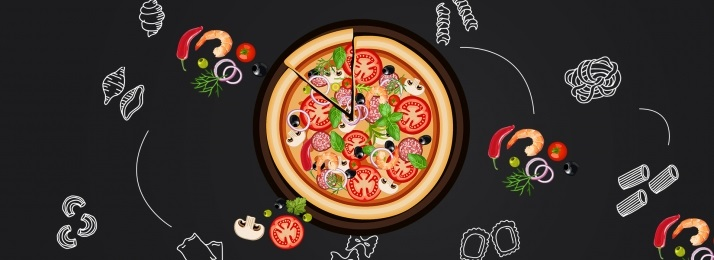
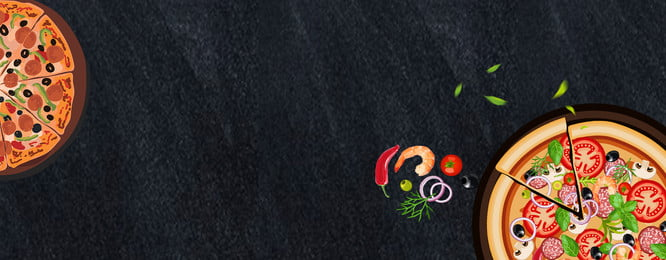
promena

diff --git a/hw-2/domaci2.html b/hw-2/domaci2.html
@@ -22,9 +22,9 @@
 		</div>
 	</nav>
 
-	<div class="container-fluid">
+	<div class="container-fluid" style="background-image: url('tamnapozadina.jpg');">
 		<div class="row">
-			<div class="col-md-12" style="padding-top: 60px; padding-bottom: 40px; background-image: url('pozadina2.jpg');">
+			<div class="col-md-12" style="padding-top: 60px; padding-bottom: 40px; background-image: url('pozadina.jpg');">
 				<h1 style="font-size: 70pt; font-family: Cursive; text-align: center; color : white; ">
 				    Fantasy Pizza</h1>
 			</div>
@@ -37,7 +37,7 @@
 
 
 		<div class="row">
-			<div class="col-md-4" ;>
+			<div class="col-md-4";>
 				<h4>Turbo Timo</h4>
 				<img src="pica1.jpg" class="img-thumbnail">
 			</div>
@@ -51,7 +51,7 @@
 
 
 
-<div class="row">
+         <div class="row">
 			<div class="col-md-4">
 				<h4>The Wizzard of Amsterdam</h4>
 				<img src="pica2.jpg" class="img-thumbnail">
@@ -79,12 +79,12 @@
 			</div>
 		</div>
 
-		<div class="row" style="box-shadow: 5px 10px 20px lightgrey inset;">
+		<div class="row">
 			<h1 id="Onama">O nama</h1>
 		</div>
 
 		<div class="row">
-			<div class="col-md-12" style="padding: 10%;">
+			<div class="col-md-12" style="padding: 10%;background-color: rgb(20, 20, 20);color: lightgrey;">
 				<p class="p1">Fantasy je nasa pica.</p>
 			</div>
 		</div>
@@ -92,7 +92,7 @@
 
 	</div>
 	<footer class="container-fluid">
-		<div class="row">
+		<div class="row" style="background-image: url('tamnapozadina.jpg');">
 				<h1 id="Kontakt" >Kontakt</h1>
 		</div>
 

diff --git a/hw-2/domaci2.css b/hw-2/domaci2.css
@@ -29,6 +29,7 @@ img{
 p{
 	font-size:20pt;
 	font-family: Cursive;
+	
 
 }
 
